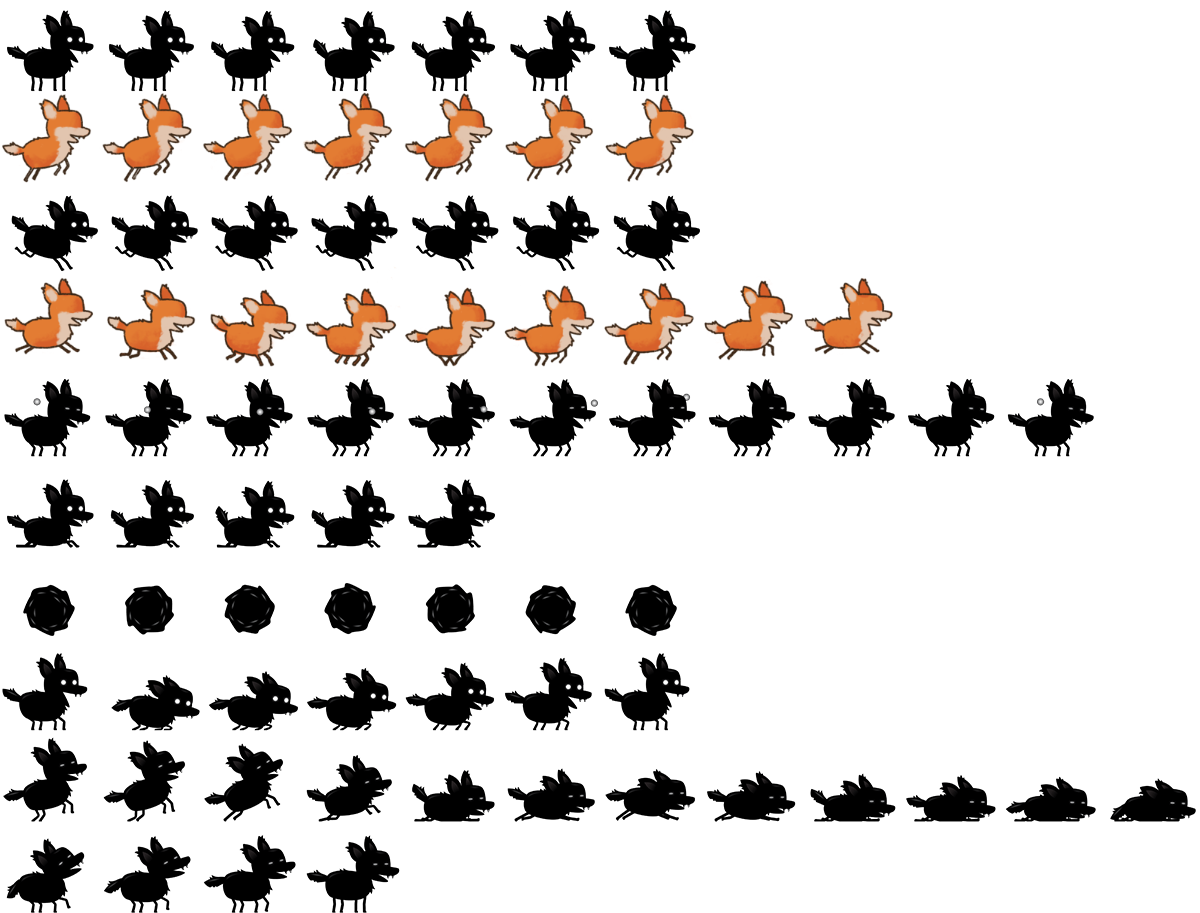
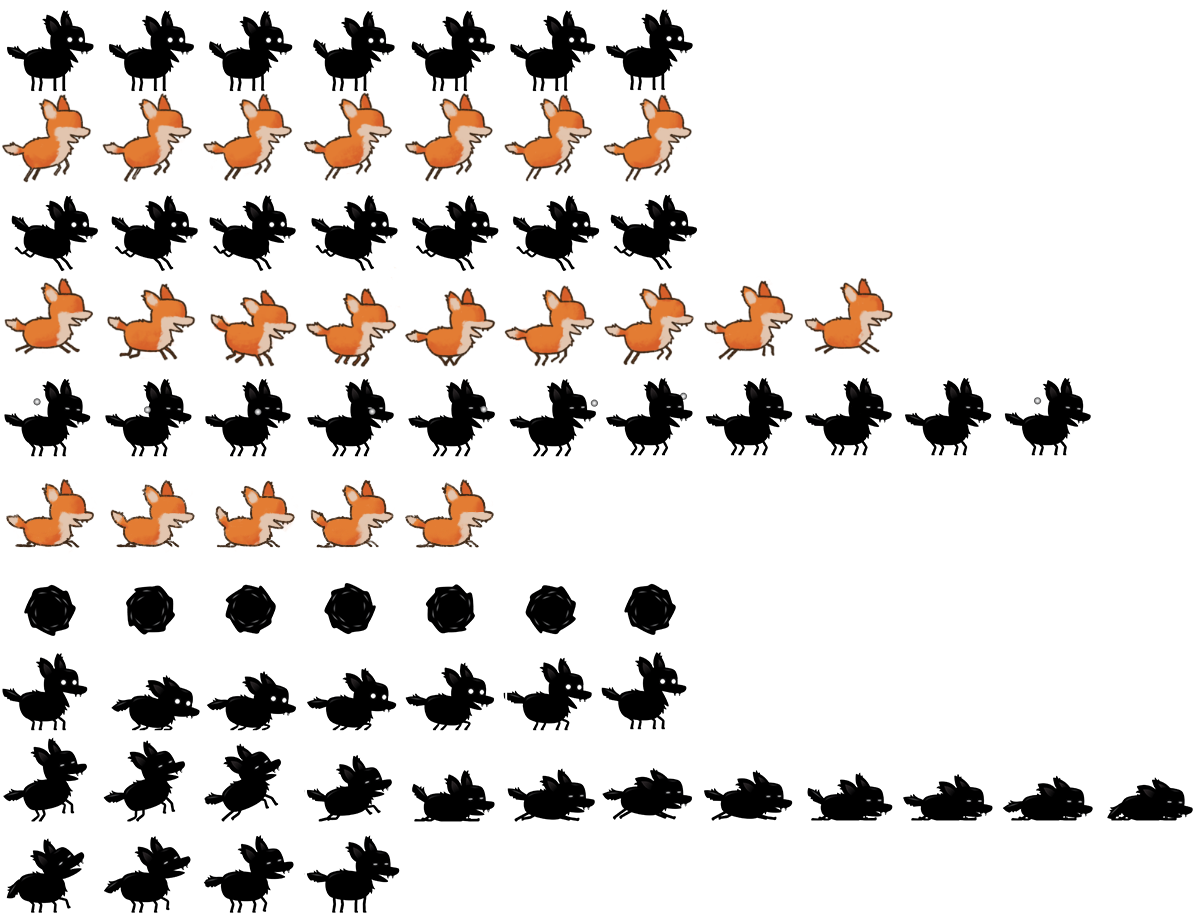
adding custom colored images and adjusting speeds of background and player

diff --git a/playerStates.js b/playerStates.js
@@ -24,12 +24,18 @@ export class Sitting extends State {
     this.game.player.frameX = 0;
     this.game.player.frameY = 5;
     this.game.player.maxFrame = 4;
+
+    // running test
+
+    // this.game.player.frameX = 0;
+    // this.game.player.frameY = 1;
+    // this.game.player.maxFrame = 6;
   }
   handleInput(input) {
     if (input.includes("ArrowLeft") || input.includes("ArrowRight")) {
       this.game.player.setState(states.RUNNING, 1);
     } else if (input.includes("z")) {
-      this.game.player.setState(states.ROLLING, 2);
+      this.game.player.setState(states.ROLLING, 1.5);
     }
   }
 }
@@ -44,20 +50,20 @@ export class Running extends State {
     this.game.player.maxFrame = 7;
   }
   handleInput(input) {
-    this.game.particles.unshift(
-      new Dust(
-        this.game,
-        this.game.player.x + this.game.player.width * 0.3,
-        this.game.player.y + this.game.player.height
-      )
-    );
+    // this.game.particles.unshift(
+    //   new Dust(
+    //     this.game,
+    //     this.game.player.x + this.game.player.width * 0.3,
+    //     this.game.player.y + this.game.player.height
+    //   )
+    // );
     if (input.includes("ArrowUp")) {
       this.game.player.setState(states.JUMPING, 1);
     }
     if (input.includes("ArrowDown")) {
       this.game.player.setState(states.SITTING, 0);
     } else if (input.includes("z")) {
-      this.game.player.setState(states.ROLLING, 2);
+      this.game.player.setState(states.ROLLING, 1.5);
     }
   }
 }
@@ -79,7 +85,7 @@ export class Jumping extends State {
     if (this.game.player.onGround()) {
       this.game.player.setState(states.RUNNING, 1);
     } else if (input.includes("z")) {
-      this.game.player.setState(states.ROLLING, 2);
+      this.game.player.setState(states.ROLLING, 1.5);
     } else if (input.includes("ArrowDown")) {
       this.game.player.setState(states.DIVING, 0);
     }
@@ -111,7 +117,7 @@ export class Rolling extends State {
   enter() {
     this.game.player.frameX = 0;
     this.game.player.frameY = 6;
-    this.game.player.maxFrame = 6;
+    this.game.player.maxFrame = 5;
   }
   handleInput(input) {
     this.game.particles.unshift(
@@ -167,7 +173,7 @@ export class Diving extends State {
         );
       }
     } else if (!input.includes("z") && this.game.player.onGround()) {
-      this.game.player.setState(states.ROLLING, 2);
+      this.game.player.setState(states.ROLLING, 1.5);
     }
   }
 }

diff --git a/player.js b/player.js
@@ -23,11 +23,11 @@ export default class Player {
     this.frameX = 0;
     this.frameY = 0;
     this.maxFrame = 5;
-    this.fps = 20;
+    this.fps = 15;
     this.frameInterval = 1000 / this.fps;
     this.frameTimer = 0;
     this.speed = 0;
-    this.maxSpeed = 6;
+    this.maxSpeed = 3;
     this.states = [
       new Sitting(this.game),
       new Running(this.game),
@@ -40,7 +40,8 @@ export default class Player {
     this.currentState = null;
   }
   update(input, deltaTime) {
-    this.checkCollisions();
+    // TODO uncomment check collisions
+    // this.checkCollisions();
     this.currentState.handleInput(input);
     // Horizontal movement
     this.x += this.speed;
@@ -50,7 +51,7 @@ export default class Player {
       input.includes("ArrowLeft") &&
       this.currentState !== this.states[6]
     )
-      this.speed = -this.maxSpeed;
+      this.speed = -this.maxSpeed - 1;
     else this.speed = 0;
     if (this.x < 0) this.x = 0;
     if (this.x > this.game.width - this.width)

diff --git a/background.js b/background.js
@@ -39,28 +39,28 @@ export class Background {
       this.game,
       this.width,
       this.height,
-      0,
+      0.3,
       this.layer1image
     );
     this.layer2 = new Layer(
       this.game,
       this.width,
       this.height,
-      0.2,
+      0.7,
       this.layer2image
     );
     this.layer3 = new Layer(
       this.game,
       this.width,
       this.height,
-      0.4,
+      0.86,
       this.layer3image
     );
     this.layer4 = new Layer(
       this.game,
       this.width,
       this.height,
-      0.8,
+      0.9,
       this.layer4image
     );
     this.layer5 = new Layer(

diff --git a/index.html b/index.html
@@ -14,8 +14,8 @@
   </head>
   <body>
     <!-- Backgrounds -->
-    <img id="layer1" src="./assets/backgrounds/forest-1.png" />
-    <img id="layer2" src="./assets/backgrounds/forest-2.png" />
+    <img id="layer1" src="./assets/backgrounds/color/forest-1.png" />
+    <img id="layer2" src="./assets/backgrounds/color/forest-2.png" />
     <img id="layer3" src="./assets/backgrounds/forest-3.png" />
     <img id="layer4" src="./assets/backgrounds/forest-4.png" />
     <img id="layer5" src="./assets/backgrounds/forest-5.png" />
